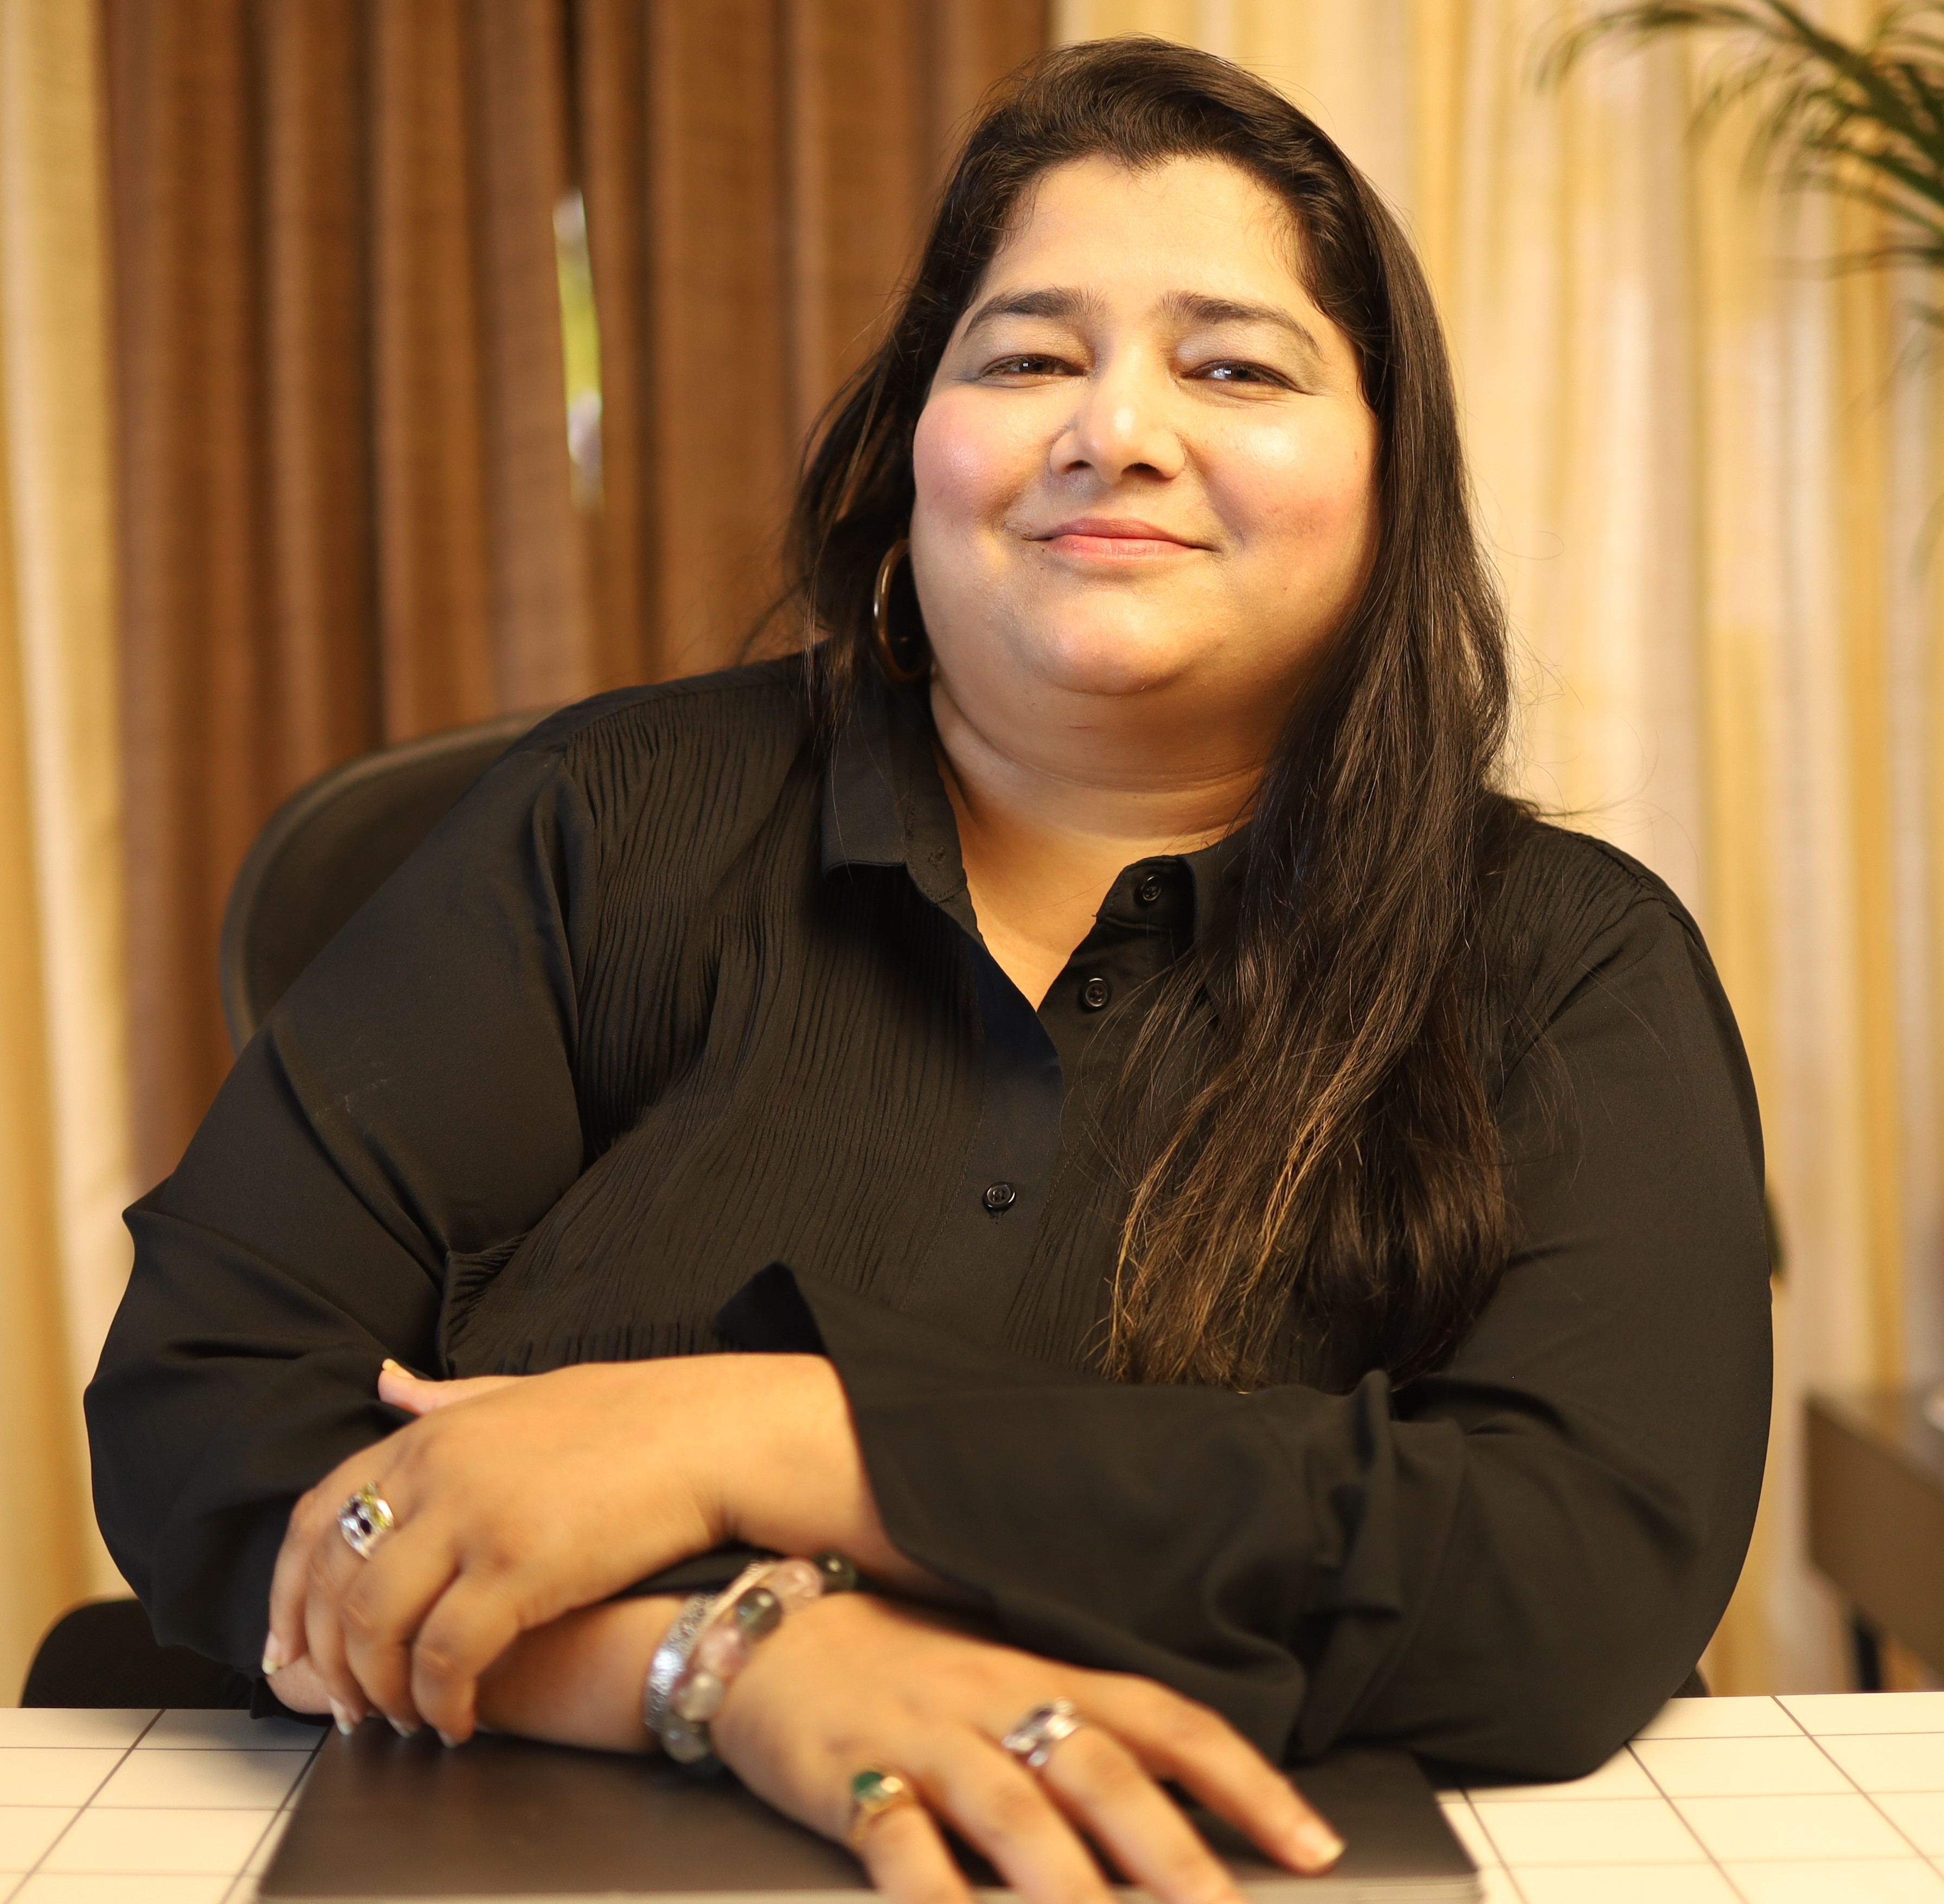
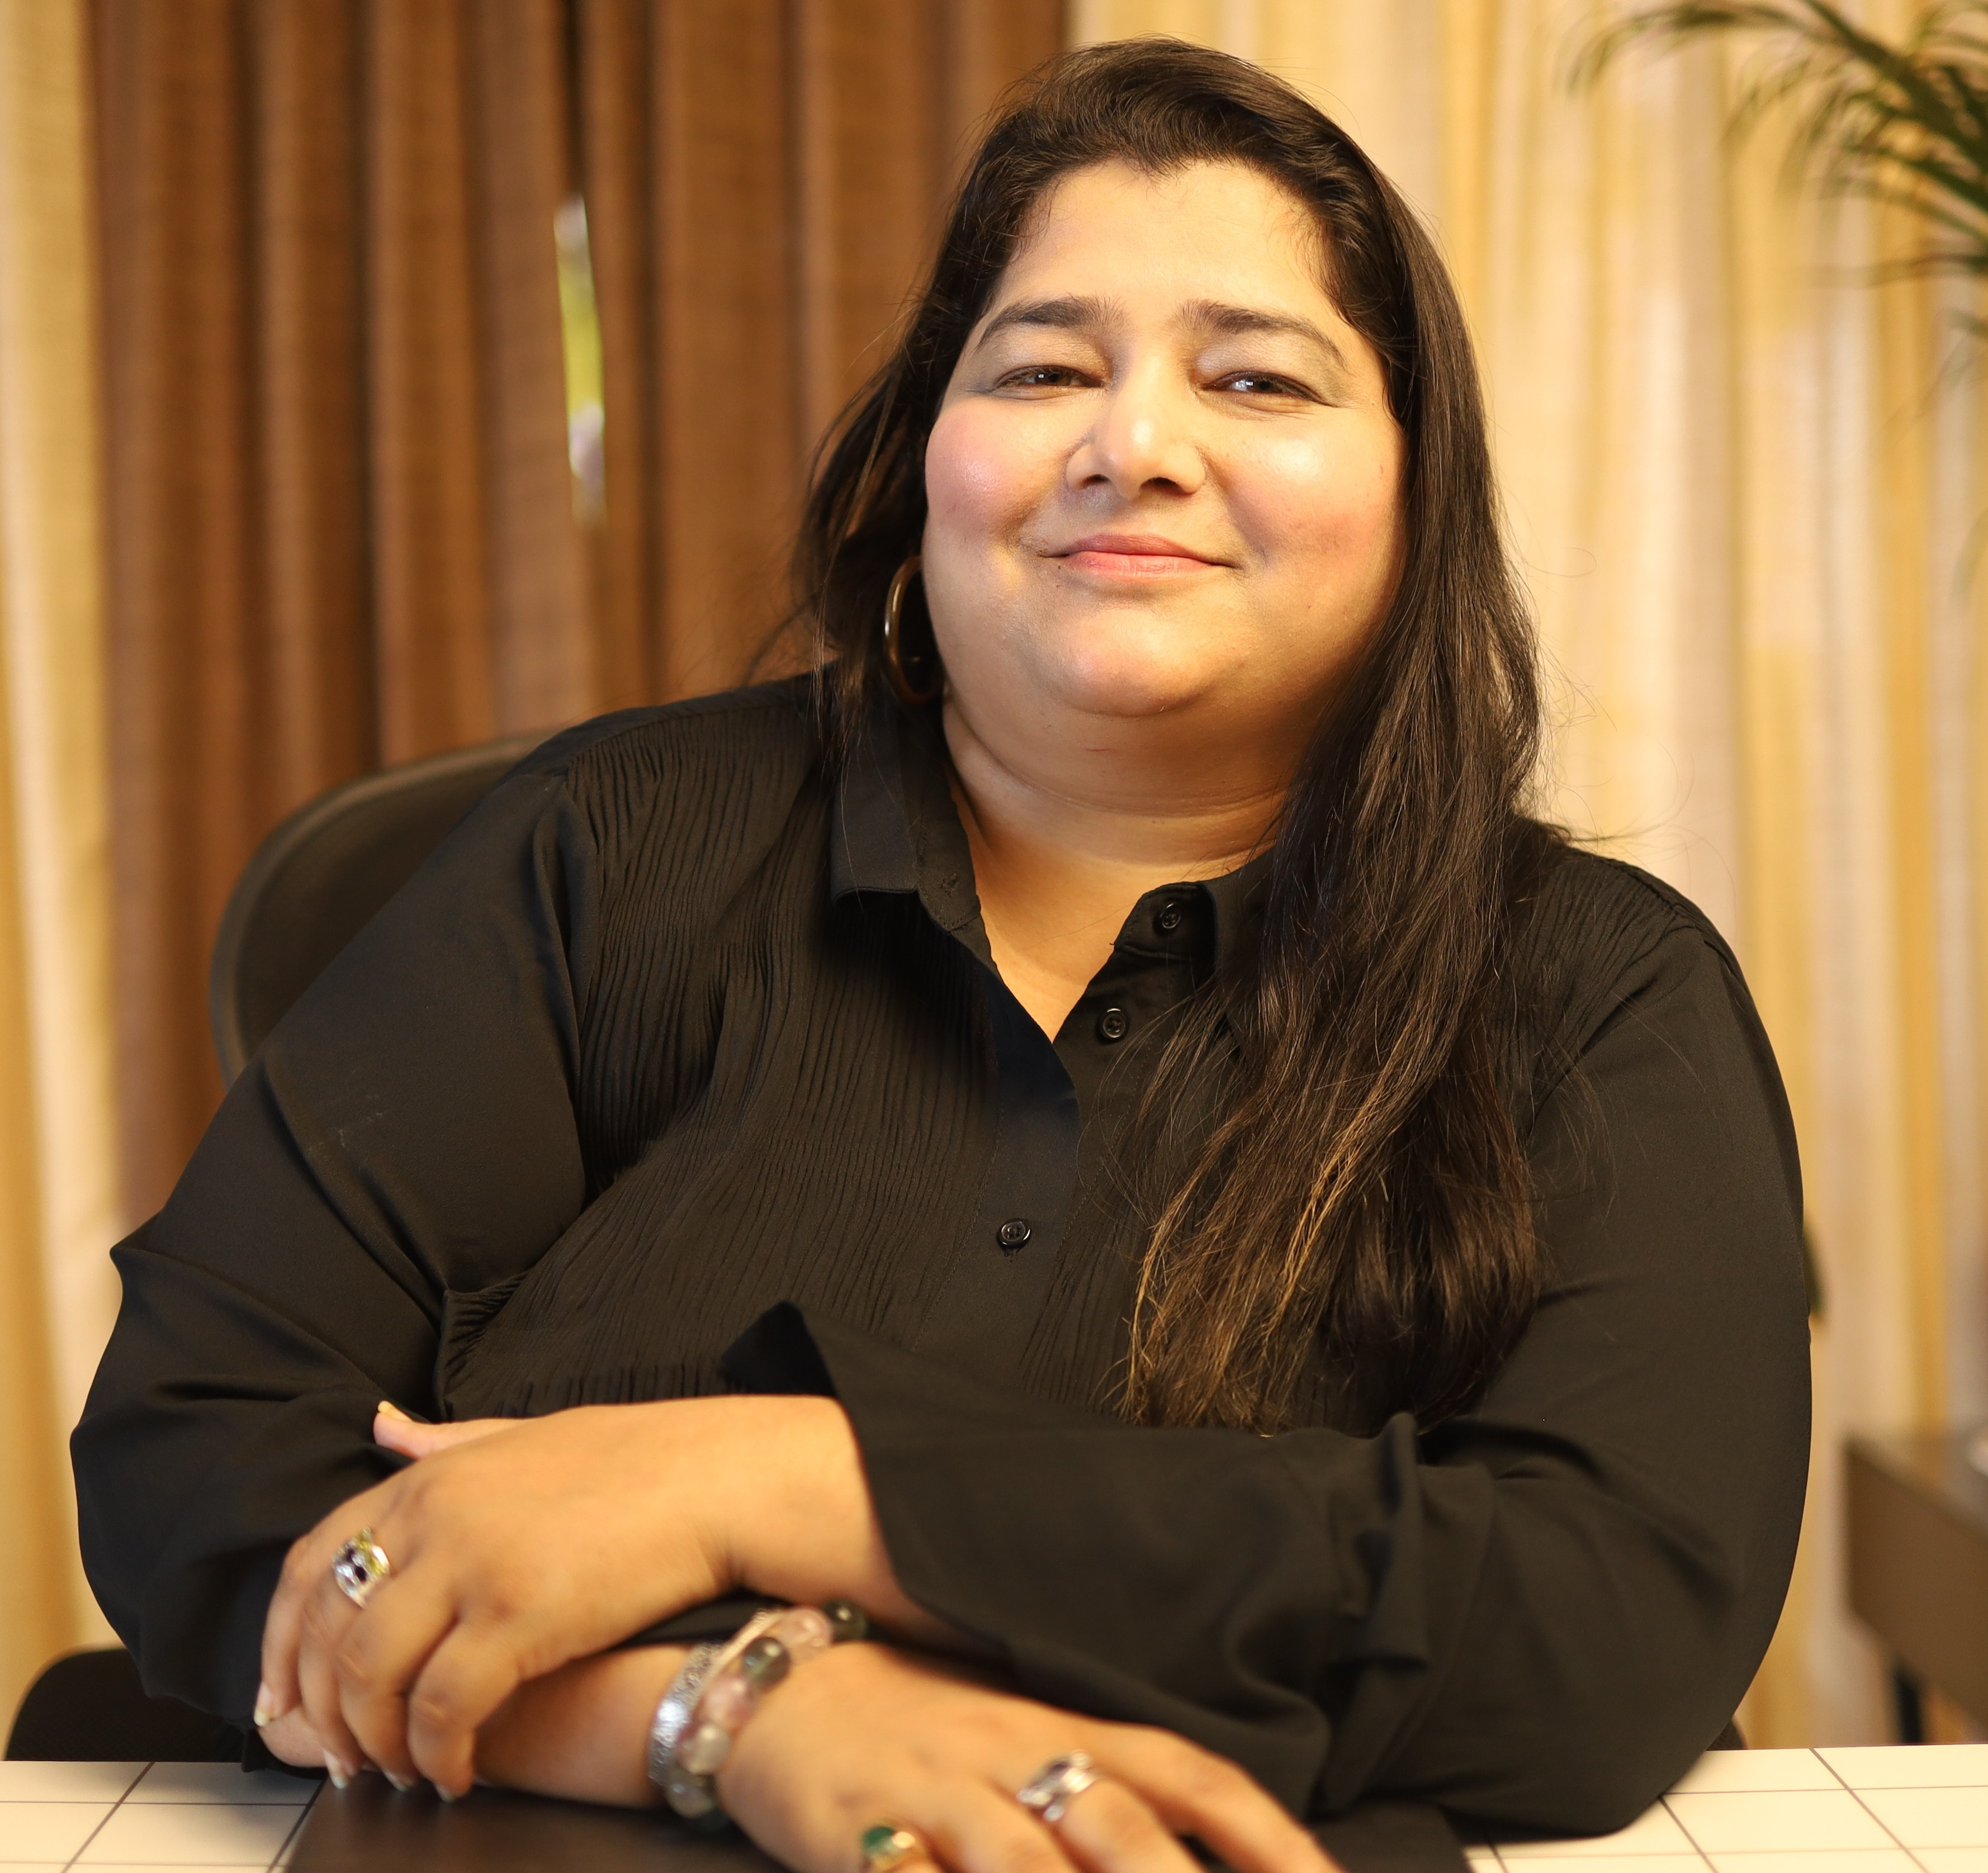
feat: update media assets and hero layout
- Replace social entrepreneurship and speaker images
- Clean up VideoPreloader styling and remove overlays
- Force refresh of hero collage speaker image

diff --git a/src/components/VideoPreloader.tsx b/src/components/VideoPreloader.tsx
@@ -33,7 +33,7 @@ function BA({ onComplete: e }) {
           "absolute inset-0 z-0 overflow-hidden flex items-center justify-center",
         children: l.jsxs("div", {
           className:
-            "relative w-full h-full scale-90 rounded-2xl overflow-hidden shadow-2xl border border-neutral-800/20",
+            "relative w-full h-full overflow-hidden",
           children: [
             l.jsx(Il.img, {
               src: "/taranna.png",
@@ -58,14 +58,6 @@ function BA({ onComplete: e }) {
               onEnded: e,
               className:
                 "absolute inset-0 w-full h-full md:object-cover object-contain pointer-events-none mix-blend-normal",
-            }),
-            l.jsx("div", {
-              className:
-                "absolute inset-0 bg-gradient-to-t from-[#121110] via-transparent to-[#121110] z-10 pointer-events-none opacity-90",
-            }),
-            l.jsx("div", {
-              className:
-                "absolute inset-0 bg-gradient-to-r from-[#121110]/80 via-transparent to-[#121110]/80 z-10 pointer-events-none opacity-90",
             }),
           ],
         }),

diff --git a/src/components/AboutSplit.tsx b/src/components/AboutSplit.tsx
@@ -11,7 +11,7 @@ const dP = [
     id: "visionary",
     label: "SOCIAL ENTREPRENEUR",
     description: "Founder of Deepjyoti India Foundation (Sampoorna), building healthcare, mental health, and dignity-first programs for young women and the elderly across India.",
-    image: "/TD-004.jpg.jpeg",
+    image: "/social_ent.jpeg",
     icon: n2,
     readMoreColor: "text-sky-400 hover:text-sky-300",
     objectPosition: "center 20%",

diff --git a/src/components/EditorialHeroCollage.tsx b/src/components/EditorialHeroCollage.tsx
@@ -266,7 +266,7 @@ const SAVED_SETTINGS = ${JSON.stringify(b, null, 2)};`;
                         : D === 0
                           ? "/NOV00034.JPG.jpeg"
                           : D === 6
-                            ? "/Speaker.JPG.jpeg"
+                            ? "/Speaker.JPG.jpeg?v=fresh"
                             : D === 7
                               ? "/ear.jpeg"
                               : D === 10